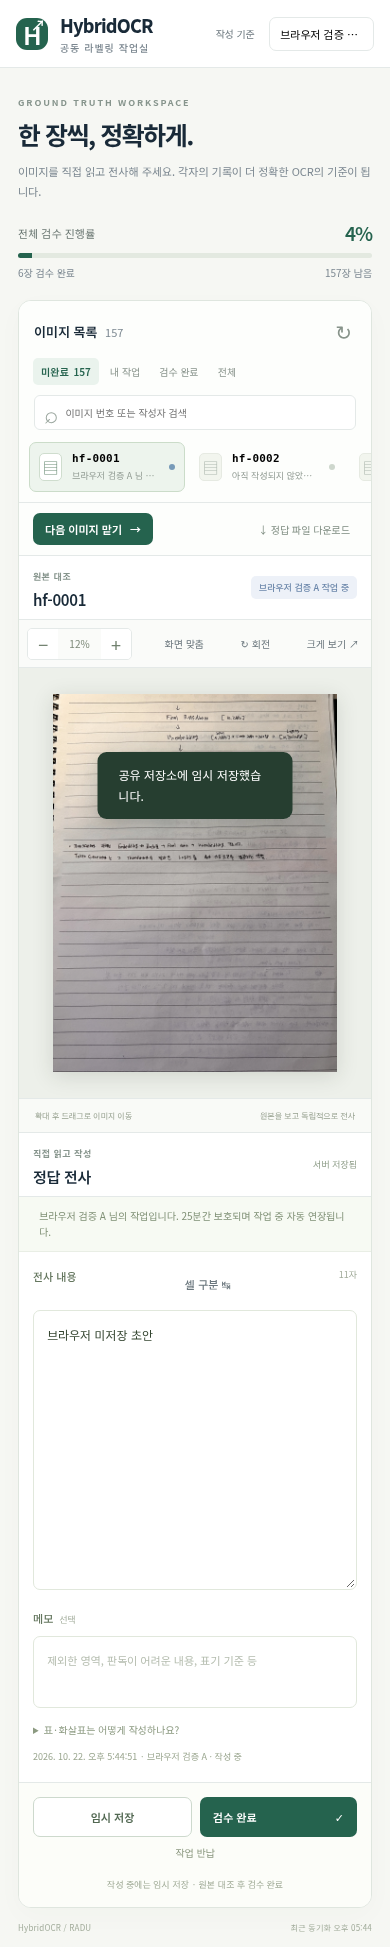
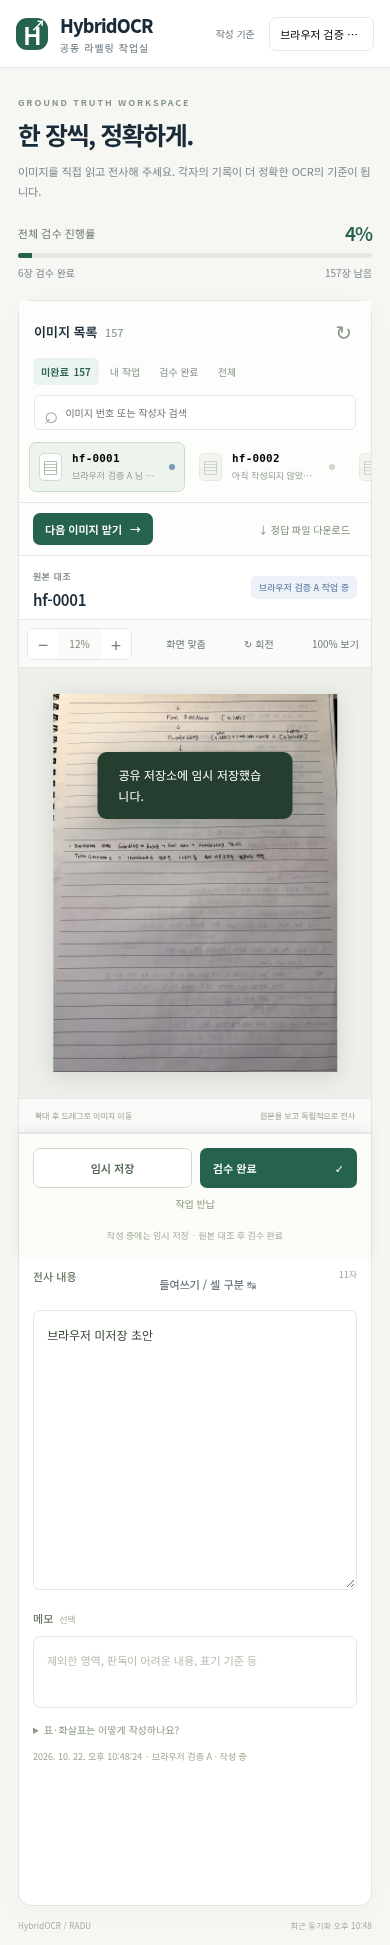
Fix clipped review controls and keep image zoom inside viewer

diff --git a/labeling/index.html b/labeling/index.html
@@ -13,7 +13,7 @@
 <div id="connection-error" class="banner hidden" role="alert"></div>
 <section class="workspace">
 <aside class="sidebar"><div class="list-heading"><h2>이미지 목록 <span id="list-count">—</span></h2><button id="refresh" class="icon-button" aria-label="목록 새로고침">↻</button></div><div class="filters" role="group" aria-label="작업 상태 필터"><button data-filter="pending" class="active">미완료 <span id="pending-count">—</span></button><button data-filter="mine">내 작업</button><button data-filter="verified">검수 완료</button><button data-filter="all">전체</button></div><label class="search"><span>⌕</span><input id="search" type="search" placeholder="이미지 번호 또는 작성자 검색" aria-label="이미지 번호 또는 작성자 검색"></label><div id="image-list" class="image-list" aria-label="이미지 목록"><div class="loading">목록을 불러오고 있습니다.</div></div><div class="sidebar-bottom"><button id="next" class="primary">다음 이미지 맡기 <span>→</span></button><button id="export" class="export">↓ 정답 파일 다운로드</button></div></aside>
-<section class="image-panel"><div class="panel-heading"><div><span class="eyebrow">원본 대조</span><h2 id="image-title">이미지를 선택하세요</h2></div><span id="image-status" class="badge neutral">준비</span></div><div class="viewer-toolbar"><div class="segmented"><button id="zoom-out" aria-label="이미지 축소">−</button><span id="zoom-value">맞춤</span><button id="zoom-in" aria-label="이미지 확대">+</button></div><button id="fit" class="quiet">화면 맞춤</button><button id="rotate" class="quiet" aria-label="이미지 90도 회전">↻ 회전</button><a id="open-image" class="quiet" target="_blank" rel="noopener">크게 보기 ↗</a></div><div id="viewer" class="viewer"><div id="image-stage" class="image-stage"><img id="source-image" alt="라벨링할 손글씨 원본" draggable="false" hidden></div><div id="empty-view" class="empty-view"><span>▧</span><h3>첫 번째 기록을 시작해 보세요</h3><p>왼쪽에서 이미지를 고르거나<br>‘다음 이미지 맡기’를 눌러 주세요.</p></div></div><div class="viewer-footer"><span>확대 후 드래그로 이미지 이동</span><span>원본을 보고 독립적으로 전사</span></div></section>
+<section class="image-panel"><div class="panel-heading"><div><span class="eyebrow">원본 대조</span><h2 id="image-title">이미지를 선택하세요</h2></div><span id="image-status" class="badge neutral">준비</span></div><div class="viewer-toolbar"><div class="segmented"><button id="zoom-out" aria-label="이미지 축소">−</button><span id="zoom-value">맞춤</span><button id="zoom-in" aria-label="이미지 확대">+</button></div><button id="fit" class="quiet">화면 맞춤</button><button id="rotate" class="quiet" aria-label="이미지 90도 회전">↻ 회전</button><button id="open-image" class="quiet" title="현재 이미지 창 안에서 원본 배율로 확대">100% 보기</button></div><div id="viewer" class="viewer"><div id="image-stage" class="image-stage"><img id="source-image" alt="라벨링할 손글씨 원본" draggable="false" hidden></div><div id="empty-view" class="empty-view"><span>▧</span><h3>첫 번째 기록을 시작해 보세요</h3><p>왼쪽에서 이미지를 고르거나<br>‘다음 이미지 맡기’를 눌러 주세요.</p></div></div><div class="viewer-footer"><span>확대 후 드래그로 이미지 이동</span><span>원본을 보고 독립적으로 전사</span></div></section>
 <section class="editor-panel"><div class="panel-heading"><div><span class="eyebrow">직접 읽고 작성</span><h2>정답 전사</h2></div><span id="save-state" class="save-state">선택 대기</span></div><div id="claim-message" class="claim-message">작업을 맡은 뒤 입력할 수 있습니다.</div><div class="editor-fields"><div class="label-line"><label for="transcription">전사 내용</label><button id="insert-tab" class="quiet" disabled title="Tab 키로 들여쓰기 · Shift+Tab으로 이전 항목 이동">들여쓰기 / 셀 구분 ↹</button><span id="char-count">0자</span></div><textarea id="transcription" maxlength="50000" placeholder="이미지에 적힌 내용을 그대로 입력하세요.&#10;&#10;줄바꿈, 영문 대소문자, 숫자와 기호를 유지해 주세요." disabled spellcheck="false"></textarea><div class="label-line"><label for="notes">메모 <span class="optional">선택</span></label></div><textarea id="notes" maxlength="8000" placeholder="제외한 영역, 판독이 어려운 내용, 표기 기준 등" disabled></textarea><details class="writing-help"><summary>표·화살표는 어떻게 작성하나요?</summary><p>표는 위에서 아래로, 각 행은 왼쪽에서 오른쪽으로 전사하세요. 셀은 탭, 행은 줄바꿈으로 구분합니다. 화살표에 붙은 글자는 전사하고, 선의 연결 관계는 별도 구조 라벨로 관리합니다. 제외한 내용은 메모에 적어 주세요.</p></details><div id="history" class="history"></div></div><div class="editor-footer"><div class="editor-actions"><button id="claim" class="primary" disabled>이 이미지 맡기</button><button id="save" class="secondary hidden" disabled>임시 저장</button><button id="verify" class="primary hidden" disabled>검수 완료 <span>✓</span></button></div><button id="release" class="text-button hidden">작업 반납</button><p>작성 중에는 임시 저장 · 원본 대조 후 검수 완료</p></div></section>
 </section><footer class="page-footer"><span>HybridOCR / RADU</span><span>기존 정답 보호 · 추가 이미지 공동 전사</span><span id="sync-time">공유 저장소 확인 중</span></footer>
 </main>

diff --git a/labeling/app.js b/labeling/app.js
@@ -64,7 +64,7 @@ function showItem(item,restore=false){
   updateClaimMessage();
   $('history').replaceChildren();
   for(const h of (item.history || []).slice(0,3)){const line=document.createElement('div');line.textContent=`${new Date(h.at).toLocaleString('ko-KR')} · ${h.author} · ${statuses[h.status]}`;$('history').append(line);}
-  if(changed){store.rotation=0;store.fit=true;$('source-image').hidden=false;$('source-image').src=item.image.file;$('open-image').href=item.image.file;$('empty-view').classList.add('hidden');}
+  if(changed){store.rotation=0;store.fit=true;$('source-image').hidden=false;$('source-image').src=item.image.file;$('empty-view').classList.add('hidden');}
   updateControls();renderList();
   if(restore && owns()){
     let draft;try{draft=JSON.parse(localStorage.getItem(draftKey()) || 'null');}catch{}
@@ -105,11 +105,23 @@ function resizeImage(){
   const img=$('source-image');if(!img.naturalWidth)return;const rotated=store.rotation%180!==0;
   const w=rotated?img.naturalHeight:img.naturalWidth,h=rotated?img.naturalWidth:img.naturalHeight;
   if(store.fit)store.zoom=Math.min(1,Math.max(.05,Math.min(($('viewer').clientWidth-52)/w,($('viewer').clientHeight-52)/h)));
-  img.style.width=img.naturalWidth*store.zoom+'px';img.style.height=img.naturalHeight*store.zoom+'px';img.style.transform=`rotate(${store.rotation}deg)`;
+  img.style.width=img.naturalWidth*store.zoom+'px';img.style.height=img.naturalHeight*store.zoom+'px';img.style.transform=`translate(-50%,-50%) rotate(${store.rotation}deg)`;
   $('image-stage').style.width=w*store.zoom+52+'px';$('image-stage').style.height=h*store.zoom+52+'px';$('zoom-value').textContent=Math.round(store.zoom*100)+'%';
 }
 $('source-image').onload=()=>{resizeImage();$('viewer').scrollTo(0,0);};$('source-image').onerror=()=>toast('이미지를 불러오지 못했습니다. 배포 파일을 확인해 주세요.');
-$('zoom-in').onclick=()=>{store.fit=false;store.zoom=Math.min(3,store.zoom*1.3);resizeImage();};$('zoom-out').onclick=()=>{store.fit=false;store.zoom=Math.max(.05,store.zoom/1.3);resizeImage();};$('fit').onclick=()=>{store.fit=true;resizeImage();$('viewer').scrollTo(0,0);};$('rotate').onclick=()=>{store.rotation=(store.rotation+90)%360;store.fit=true;resizeImage();};
+function zoomImage(value){
+  const viewer=$('viewer'),img=$('source-image');if(!img.naturalWidth)return;
+  const old=store.zoom;
+  const centerX=(viewer.scrollLeft+viewer.clientWidth/2)/Math.max(viewer.scrollWidth,1);
+  const centerY=(viewer.scrollTop+viewer.clientHeight/2)/Math.max(viewer.scrollHeight,1);
+  store.fit=false;store.zoom=Math.max(.05,Math.min(3,value));resizeImage();
+  if(old!==store.zoom)viewer.scrollTo(centerX*viewer.scrollWidth-viewer.clientWidth/2,centerY*viewer.scrollHeight-viewer.clientHeight/2);
+}
+$('zoom-in').onclick=()=>zoomImage(store.zoom*1.3);
+$('zoom-out').onclick=()=>zoomImage(store.zoom/1.3);
+$('open-image').onclick=()=>zoomImage(1);
+$('fit').onclick=()=>{store.fit=true;resizeImage();$('viewer').scrollTo(0,0);};
+$('rotate').onclick=()=>{store.rotation=(store.rotation+90)%360;store.fit=true;resizeImage();};
 let pan=null;
 $('viewer').onpointerdown=e=>{if(e.button!==0 || !store.item)return;pan={x:e.clientX,y:e.clientY,left:$('viewer').scrollLeft,top:$('viewer').scrollTop};$('viewer').setPointerCapture(e.pointerId);$('viewer').classList.add('dragging');};
 $('viewer').onpointermove=e=>{if(pan){$('viewer').scrollLeft=pan.left-(e.clientX-pan.x);$('viewer').scrollTop=pan.top-(e.clientY-pan.y);}};

diff --git a/labeling/app.css b/labeling/app.css
@@ -4,3 +4,21 @@
 @media(max-width:800px){.workspace{grid-template-columns:minmax(0,1fr)}.sidebar{min-width:0}.image-list{width:100%;min-width:0}}
 
 #transcription{tab-size:4;}
+
+/* Constrain desktop grid children so image dimensions cannot push actions out. */
+html{overflow-y:auto;}
+.workspace{grid-template-rows:minmax(0,1fr);}
+.image-panel,.editor-panel{min-height:0;overflow:hidden;}
+.editor-footer,.sidebar-bottom,.panel-heading,.viewer-toolbar,.viewer-footer,.claim-message{flex-shrink:0;}
+.editor-fields> :not(#transcription){flex-shrink:0;}
+.editor-footer{position:relative;z-index:2;}
+.viewer{touch-action:pan-x pan-y;}
+.image-stage{position:relative;padding:0;}
+.image-stage img{position:absolute;left:50%;top:50%;}
+.viewer-toolbar{flex-wrap:wrap;height:auto;min-height:48px;gap:4px;padding-top:5px;padding-bottom:5px;}
+@media(max-width:800px){
+  .workspace{grid-template-rows:none;grid-auto-rows:auto;overflow:visible;}
+  .image-panel,.editor-panel{overflow:visible;}
+  .editor-fields{flex:none;overflow:visible;}
+  .editor-footer{position:sticky;bottom:0;padding-bottom:max(12px,env(safe-area-inset-bottom));box-shadow:0 -3px 12px #192a3810;}
+}

diff --git a/labeling/tests/layout_check.py b/labeling/tests/layout_check.py
@@ -1,0 +1,47 @@
+"""Exercise scroll reachability and inline zoom on desktop and narrow screens."""
+import os
+from playwright.sync_api import sync_playwright, expect
+URL=os.environ.get('LABEL_TEST_URL','http://127.0.0.1:8028')
+with sync_playwright() as p:
+    browser=p.chromium.launch(executable_path='/usr/bin/google-chrome',args=['--no-sandbox'])
+    page=browser.new_page(viewport={'width':1366,'height':768})
+    errors=[]
+    page.on('pageerror',lambda e:errors.append(str(e)))
+    page.goto(URL)
+    page.locator('#author-name').fill('스크롤 회귀 검증')
+    page.locator('#name-form button[type=submit]').click()
+    page.locator('#next').click()
+    expect(page.locator('#transcription')).to_be_enabled()
+    page.wait_for_function('document.getElementById("source-image").naturalWidth>0')
+    for width,height in [(1512,1040),(1366,768),(1024,600),(820,650),(800,600),(390,844)]:
+        page.set_viewport_size({'width':width,'height':height})
+        page.locator('#fit').click()
+        page.locator('.writing-help').evaluate('(e)=>e.open=true')
+        page.wait_for_timeout(100)
+        assert page.evaluate('document.documentElement.scrollWidth<=innerWidth'),(width,'page overflow')
+        for selector in ['#save','#verify']:
+            button=page.locator(selector)
+            button.scroll_into_view_if_needed()
+            expect(button).to_be_in_viewport()
+            assert button.evaluate('e=>{const r=e.getBoundingClientRect();return e.contains(document.elementFromPoint(r.x+r.width/2,r.y+r.height/2))}'),(width,selector,'clipped')
+        if width>800:
+            assert page.locator('.editor-footer').evaluate('e=>{const r=e.getBoundingClientRect(),w=document.querySelector(".workspace").getBoundingClientRect();return r.bottom<=w.bottom+1}'),(width,'footer outside grid')
+            assert page.locator('.editor-fields').evaluate('e=>{e.scrollTop=100000;return e.scrollHeight<=e.clientHeight || e.scrollTop>0}'),(width,'cannot scroll editor')
+        viewer=page.locator('#viewer')
+        before=viewer.evaluate('e=>[e.clientWidth,e.clientHeight]')
+        page.locator('#open-image').click()
+        expect(page.locator('#zoom-value')).to_have_text('100%')
+        page.locator('#zoom-in').click()
+        expect(page.locator('#zoom-value')).to_have_text('130%')
+        assert viewer.evaluate('e=>[e.clientWidth,e.clientHeight]')==before,(width,'viewer expanded')
+        assert viewer.evaluate('e=>{e.scrollTop=100;e.scrollLeft=100;return e.scrollTop>0 || e.scrollLeft>0}'),(width,'image cannot scroll')
+        page.locator('#zoom-out').click()
+        expect(page.locator('#zoom-value')).to_have_text('100%')
+        page.locator('#rotate').click()
+        page.locator('#open-image').click()
+        assert page.locator('#source-image').evaluate('e=>{const r=e.getBoundingClientRect(),s=e.parentElement.getBoundingClientRect();return r.left>=s.left && r.top>=s.top && r.right<=s.right && r.bottom<=s.bottom}'),(width,'rotated image clipped')
+        assert len(page.context.pages)==1,'zoom opened a new window'
+        page.locator('#fit').click()
+        print(f'{width}x{height}: buttons reachable, scroll and inline zoom passed',flush=True)
+    assert not errors,errors
+    browser.close()
